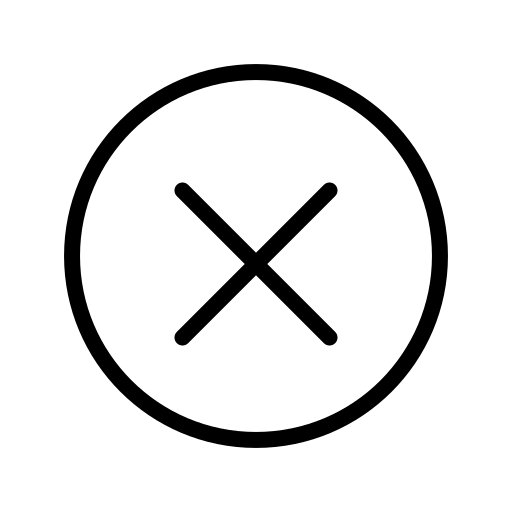
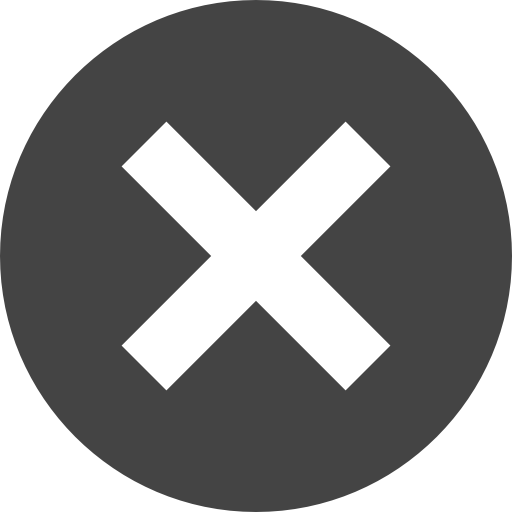
chore: close button UI improvement

diff --git a/src/components/primary-widgets/selectors/Selectors.less b/src/components/primary-widgets/selectors/Selectors.less
@@ -73,7 +73,7 @@
     top: 5%;
     max-width: 90%;
 
-    .selector-window-inner {
+    .custom-selector-window-inner {
         padding: 15px;
     }
 }
